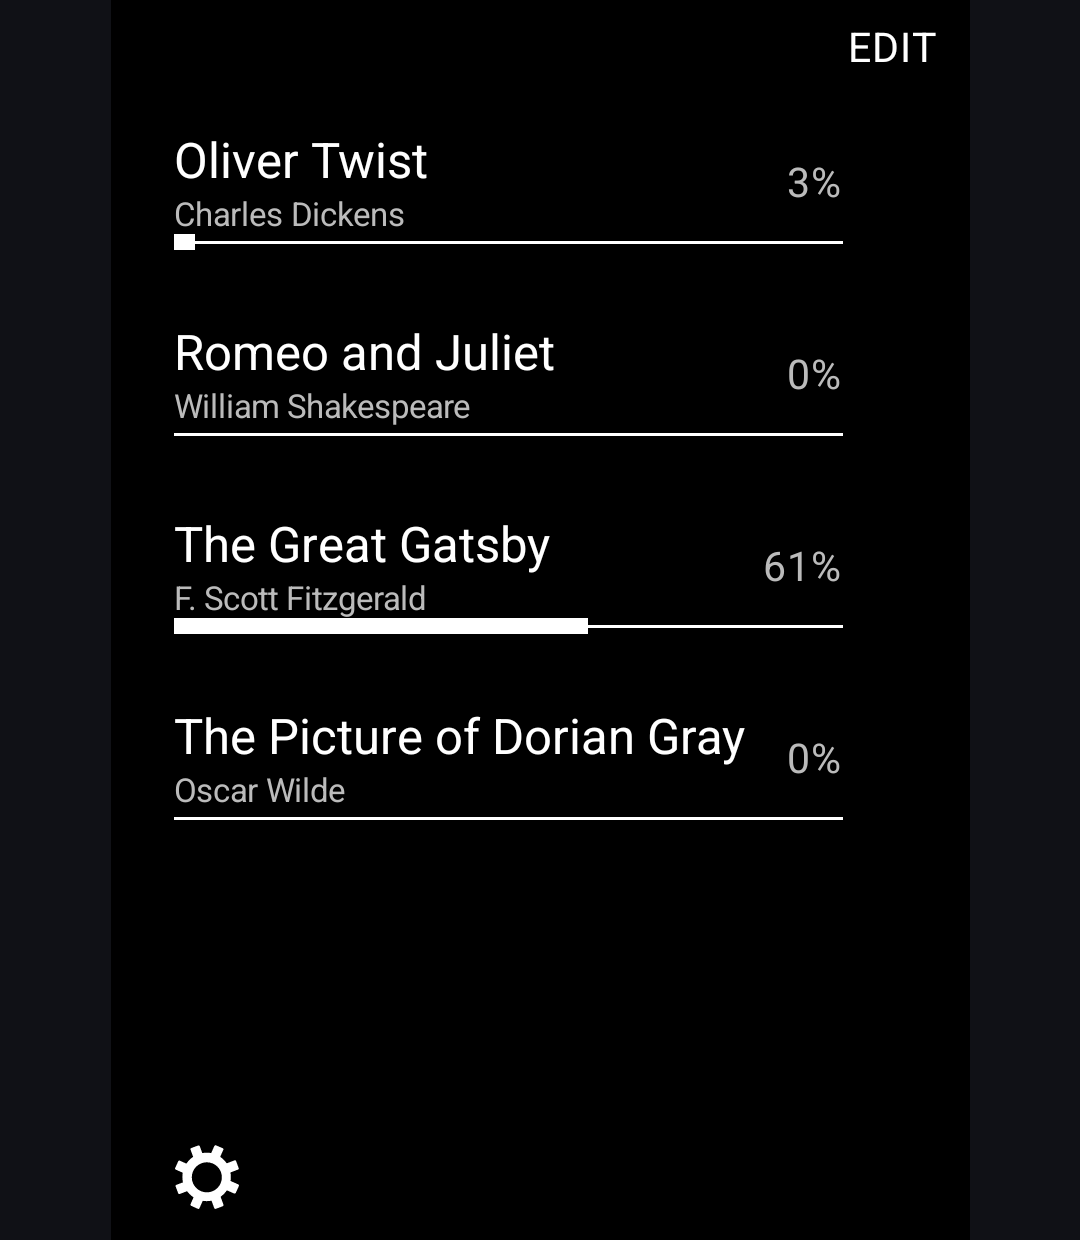
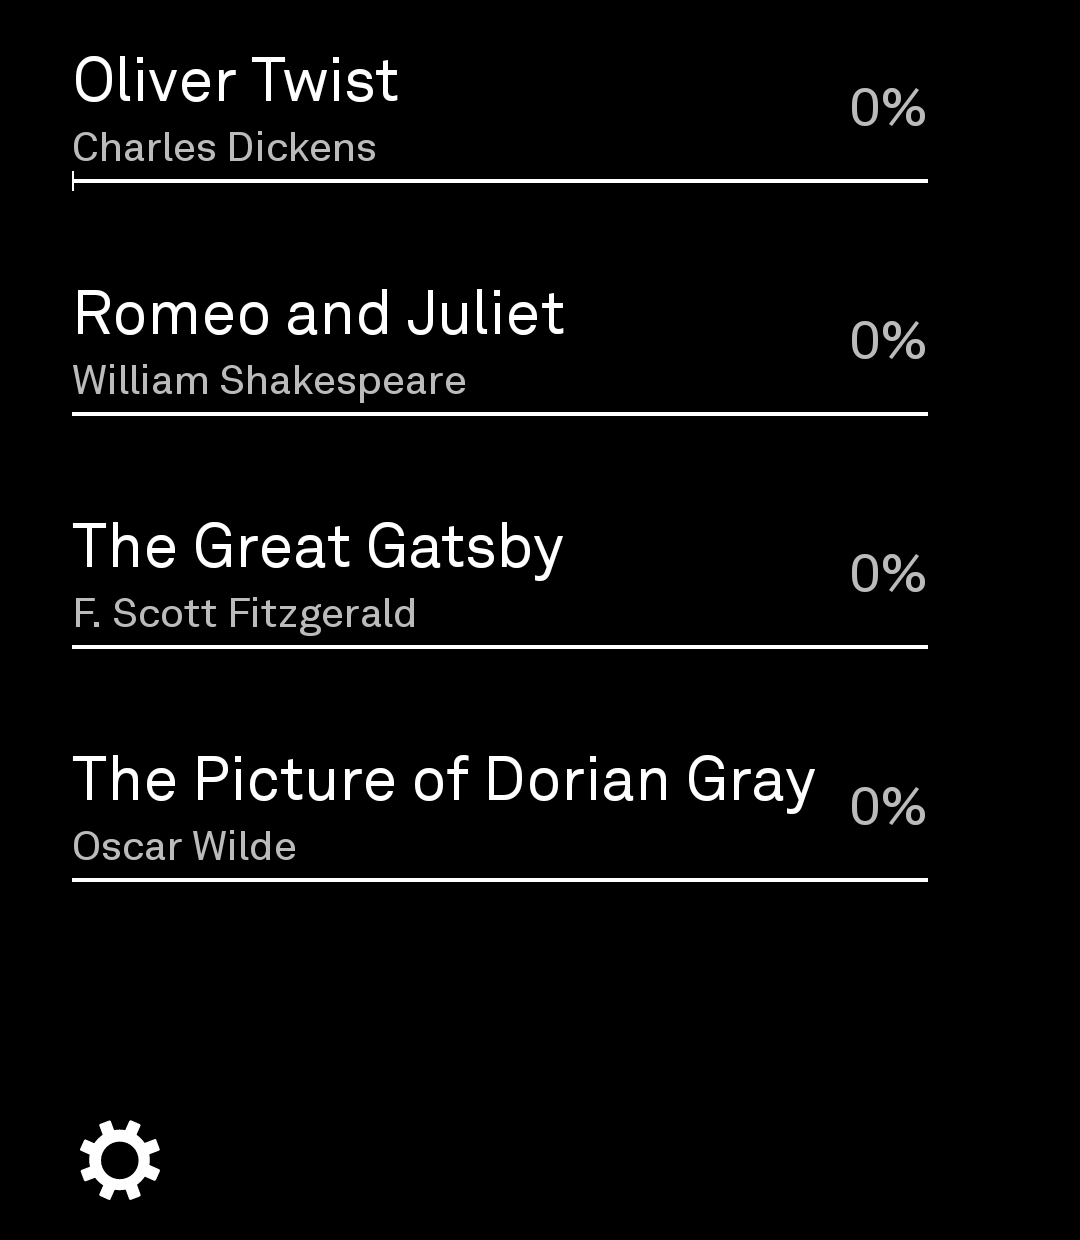
Library: drop edit/remove mode and Bluetooth link; server: fix notifications permission; real-device screenshots

diff --git a/app/src/main/kotlin/com/lightphone/audiobooks/screens/LibraryScreen.kt b/app/src/main/kotlin/com/lightphone/audiobooks/screens/LibraryScreen.kt
@@ -4,13 +4,10 @@ import androidx.compose.foundation.background
 import androidx.compose.foundation.layout.Box
 import androidx.compose.foundation.layout.Column
 import androidx.compose.foundation.layout.Row
-import androidx.compose.foundation.layout.Spacer
 import androidx.compose.foundation.layout.fillMaxSize
 import androidx.compose.foundation.layout.fillMaxWidth
 import androidx.compose.foundation.layout.navigationBarsPadding
 import androidx.compose.foundation.layout.padding
-import androidx.compose.foundation.layout.size
-import androidx.compose.foundation.layout.width
 import androidx.compose.runtime.Composable
 import androidx.compose.runtime.collectAsState
 import androidx.compose.runtime.getValue
@@ -27,7 +24,6 @@ import com.thelightphone.sdk.SimpleLightScreen
 import com.thelightphone.sdk.shared.LightServiceMethod
 import com.thelightphone.sdk.ui.LightBarButton
 import com.thelightphone.sdk.ui.LightBottomBar
-import com.thelightphone.sdk.ui.LightIcon
 import com.thelightphone.sdk.ui.LightIcons
 import com.thelightphone.sdk.ui.LightProgressBar
 import com.thelightphone.sdk.ui.LightScrollView
@@ -36,7 +32,6 @@ import com.thelightphone.sdk.ui.LightTextVariant
 import com.thelightphone.sdk.ui.LightTheme
 import com.thelightphone.sdk.ui.LightThemeController
 import com.thelightphone.sdk.ui.LightThemeTokens
-import com.thelightphone.sdk.ui.LightTopBar
 import com.thelightphone.sdk.ui.lightClickable
 import kotlinx.coroutines.delay
 import kotlinx.coroutines.flow.MutableStateFlow
@@ -46,7 +41,6 @@ class LibraryViewModel : LightViewModel<Unit>() {
 
     val books = MutableStateFlow<List<LightServiceMethod.GetBooks.Book>>(emptyList())
     val loading = MutableStateFlow(true)
-    val editing = MutableStateFlow(false)
 
     override fun onScreenShow(screen: SimpleLightScreen<Unit>) {
         super.onScreenShow(screen)
@@ -66,14 +60,7 @@ class LibraryViewModel : LightViewModel<Unit>() {
             }
             books.value = result
             loading.value = false
-            // Deleting the last book empties the library; edit mode has nothing
-            // to act on and its toggle disappears with the book list.
-            if (books.value.isEmpty()) editing.value = false
         }
-    }
-
-    fun toggleEditing() {
-        editing.value = !editing.value
     }
 
     private companion object {
@@ -95,7 +82,6 @@ class LibraryScreen(sealedActivity: SealedLightActivity) :
     override fun Content() {
         val books by viewModel.books.collectAsState()
         val loading by viewModel.loading.collectAsState()
-        val editing by viewModel.editing.collectAsState()
         val themeColors by LightThemeController.colors.collectAsState()
 
         LightTheme(colors = themeColors) {
@@ -104,16 +90,6 @@ class LibraryScreen(sealedActivity: SealedLightActivity) :
                     .fillMaxSize()
                     .background(LightThemeTokens.colors.background),
             ) {
-                LightTopBar(
-                    rightButton = if (books.isNotEmpty()) {
-                        LightBarButton.Text(
-                            text = if (editing) "DONE" else "EDIT",
-                            onClick = { viewModel.toggleEditing() },
-                        )
-                    } else {
-                        null
-                    },
-                )
                 Box(modifier = Modifier.weight(1f)) {
                     when {
                         loading && books.isEmpty() -> StatusText("Scanning your library…")
@@ -124,9 +100,7 @@ class LibraryScreen(sealedActivity: SealedLightActivity) :
                             books.forEach { book ->
                                 BookRow(
                                     book = book,
-                                    editing = editing,
                                     onOpen = { openPlayer(book) },
-                                    onRemove = { removeBook(book) },
                                 )
                             }
                         }
@@ -135,18 +109,12 @@ class LibraryScreen(sealedActivity: SealedLightActivity) :
                 LightBottomBar(
                     modifier = Modifier.navigationBarsPadding(),
                     items = listOf(
-                        // No settings or bluetooth while choosing books to remove.
-                        if (editing) null else LightBarButton.LightIcon(
+                        LightBarButton.LightIcon(
                             icon = LightIcons.SETTINGS,
                             onClick = { openSettings() },
                             contentDescription = "Settings",
                         ),
                         null,
-                        if (editing) null else LightBarButton.LightIcon(
-                            icon = LightIcons.BLUETOOTH,
-                            onClick = { openBluetoothSettings() },
-                            contentDescription = "Bluetooth settings",
-                        ),
                     ),
                 )
             }
@@ -157,29 +125,15 @@ class LibraryScreen(sealedActivity: SealedLightActivity) :
         navigateTo(screenFactory = { PlayerScreen(it, book) })
     }
 
-    private fun removeBook(book: LightServiceMethod.GetBooks.Book) {
-        navigateTo(screenFactory = { RemoveBookScreen(it, book) })
-    }
-
     private fun openSettings() {
         navigateTo(screenFactory = { SettingsScreen(it) })
-    }
-
-    /** The companion (which can't launch activities from the background) hosts
-     *  a transparent activity that opens the system Bluetooth settings. */
-    private fun openBluetoothSettings() {
-        startServerActivity(
-            "com.lightphone.audiobooks.server/com.lightphone.audiobooks.server.BluetoothSettingsActivity",
-        )
     }
 }
 
 @Composable
 private fun BookRow(
     book: LightServiceMethod.GetBooks.Book,
-    editing: Boolean,
     onOpen: () -> Unit,
-    onRemove: () -> Unit,
 ) {
     val themeColors by LightThemeController.colors.collectAsState()
     val progress = if (book.durationMs > 0) {
@@ -187,35 +141,16 @@ private fun BookRow(
     } else {
         0f
     }
-    val rowModifier = if (editing) {
-        Modifier.fillMaxWidth()
-    } else {
-        Modifier
+    Column(
+        modifier = Modifier
             .fillMaxWidth()
             .lightClickable(onClick = onOpen)
-    }
-    Column(
-        modifier = rowModifier.padding(horizontal = 24.dp, vertical = 14.dp),
+            .padding(horizontal = 24.dp, vertical = 14.dp),
     ) {
         Row(
             modifier = Modifier.fillMaxWidth(),
             verticalAlignment = Alignment.CenterVertically,
         ) {
-            if (editing) {
-                Box(
-                    modifier = Modifier
-                        .size(36.dp)
-                        .lightClickable(onClick = onRemove),
-                    contentAlignment = Alignment.Center,
-                ) {
-                    LightIcon(
-                        icon = LightIcons.CLOSE,
-                        size = 1.5f,
-                        contentDescription = "Remove ${book.title}",
-                    )
-                }
-                Spacer(Modifier.width(12.dp))
-            }
             Column(modifier = Modifier.weight(1f)) {
                 LightText(
                     text = book.title,
@@ -230,22 +165,16 @@ private fun BookRow(
                     )
                 }
             }
-            // Progress is noise while choosing books to remove.
-            if (!editing) {
-                LightText(
-                    text = "${(progress.coerceIn(0f, 1f) * 100).toInt()}%",
-                    variant = LightTextVariant.Fine,
-                    lighten = true,
-                )
-            }
-        }
-        // Progress is noise while choosing books to remove.
-        if (!editing) {
-            LightProgressBar(
-                colors = themeColors,
-                progress = progress,
+            LightText(
+                text = "${(progress.coerceIn(0f, 1f) * 100).toInt()}%",
+                variant = LightTextVariant.Fine,
+                lighten = true,
             )
         }
+        LightProgressBar(
+            colors = themeColors,
+            progress = progress,
+        )
     }
 }
 

diff --git a/server/src/main/kotlin/com/lightphone/audiobooks/server/MainActivity.kt b/server/src/main/kotlin/com/lightphone/audiobooks/server/MainActivity.kt
@@ -50,13 +50,18 @@ class MainActivity : ComponentActivity() {
     }
 
     private fun requestAudioPermissionIfNeeded() {
-        val permission = if (Build.VERSION.SDK_INT >= 33) {
-            Manifest.permission.READ_MEDIA_AUDIO
-        } else {
-            Manifest.permission.READ_EXTERNAL_STORAGE
+        val permissions = mutableListOf(
+            if (Build.VERSION.SDK_INT >= 33) {
+                Manifest.permission.READ_MEDIA_AUDIO
+            } else {
+                Manifest.permission.READ_EXTERNAL_STORAGE
+            },
+        )
+        if (Build.VERSION.SDK_INT >= 33) {
+            permissions += Manifest.permission.POST_NOTIFICATIONS
         }
-        if (checkSelfPermission(permission) != PackageManager.PERMISSION_GRANTED) {
-            permissionLauncher.launch(arrayOf(permission))
+        if (permissions.any { checkSelfPermission(it) != PackageManager.PERMISSION_GRANTED }) {
+            permissionLauncher.launch(permissions.toTypedArray())
         }
     }
 }
